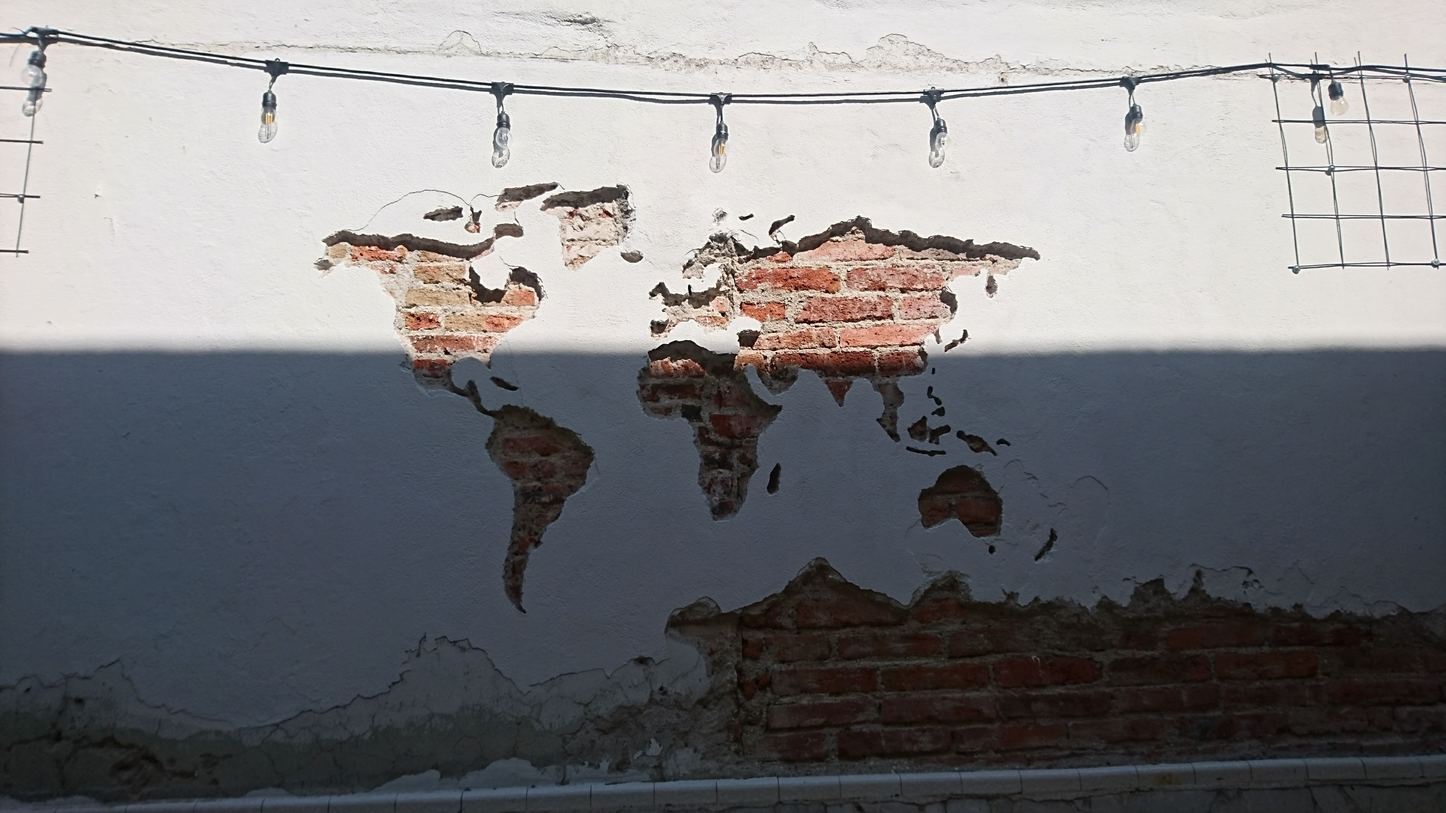
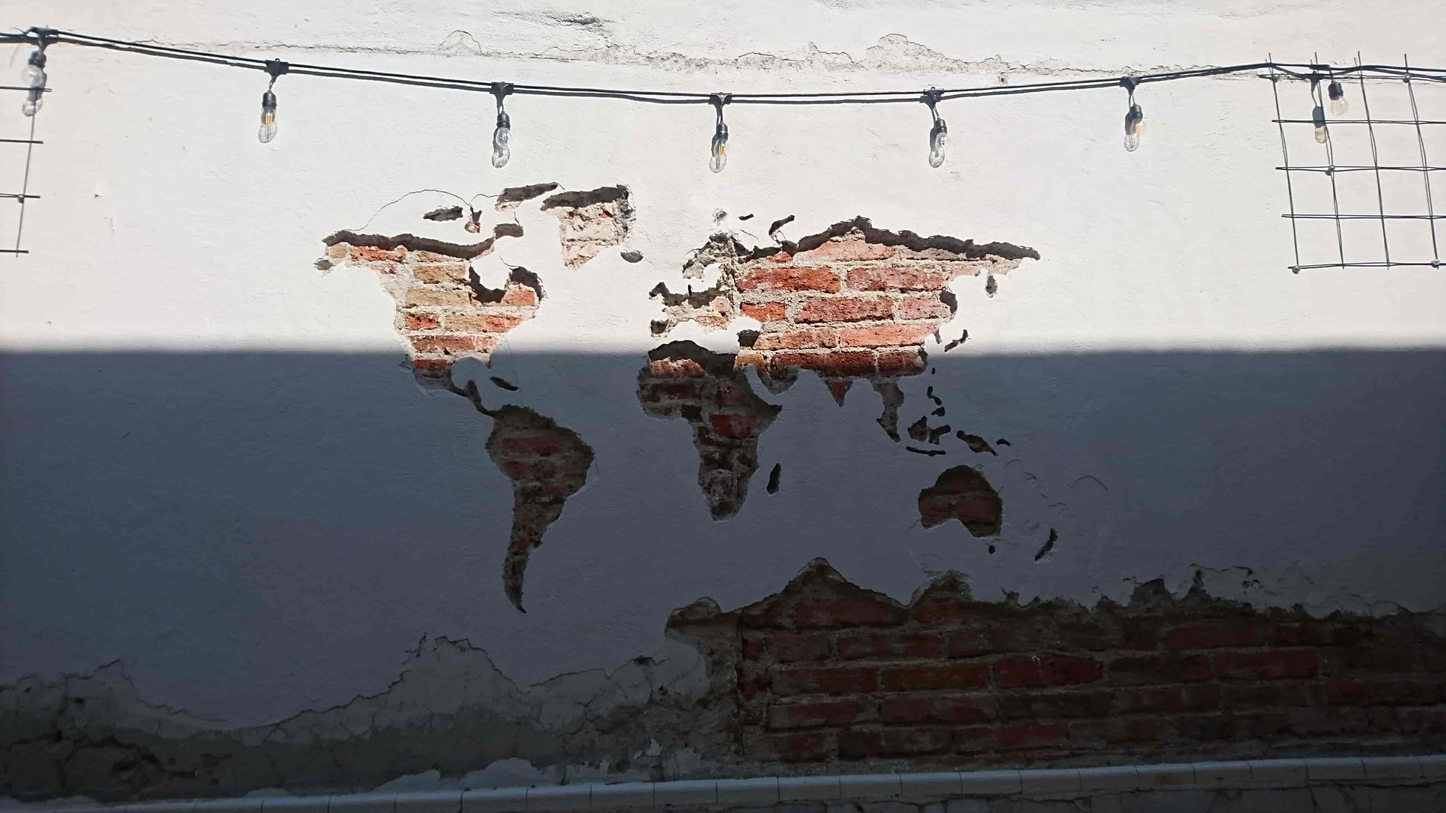
Compressed images, added text in About page

Changed region(s): [[0.5, 0.3102, 0.6562, 0.4343]]

diff --git a/pages/about.md b/pages/about.md
@@ -7,41 +7,85 @@ header:
     image_fullwidth: homepage_image.jpg
 ---
 
-Samudra is dedicated to solving global waste management challenges that don't have a profitable solution. Currently only 2 in 3 people worldwide have access to waste collection services. Ask yourself, what would you do if all of the waste in your bin would be your's to keep? 
+Samudra is dedicated to solving global waste management challenges that don't have a profitable solution. 
+Here we describe what we do, why we do it, and how our work directly contributes to 15 out of 17 Sustainable Development Goals (SGDs) set by the UN. 
 <hr style="height:10px; visibility:hidden;" />
+
+
+
+<h4>Waste collection services for everyone</h4>
+<br/>
+Currently only 2 in 3 people worldwide have access to waste collection services. 
+Every day 2.6 billion people face a choice of what to do with their waste. 
+Some set it on fire, some add it to a dumpsite nearby, some drive long distances to dump it far away from home, some let currents in a nearby river to carry their waste away. 
+<b>Ask yourself, what would you do if all the waste in your bin would be yours to keep?</b> 
+At Samudra our goal is to minimise the number of people who have to make this choice. 
+
 
 
 <h4>Back to front business of waste management</h4>
 <br/>
-Why we do it..
-As our first challenge we picked marine plastic pollution because it is an urgent matter. 
+Think of a successful company that sells a great product. 
+How did they achieve that? 
+They most likely started with identifying a market niche and learning about the target market segment. 
+Then they made decisions about investment in appropriate infrastructure. 
+Finally, they identified suppliers that can provide the type and amount of materials required for production. 
+If you've ever started a company, you know that none of these steps are easy. 
+Now imagine how hard it is to build a successful company if you must follow these steps in reverse order! 
+In waste management you don't choose the composition or the amount of generated waste; everything that is produced in your collection area has to be processed. 
+You then need to find a market for recyclable materials or products you can make with them yourself, but you cannot guarantee to your customers that you will be able to supply these continuously.
+Often the waste composition changes faster than infrastructure investment pays off. 
+As a result, waste management that doesn't harm the environment or human health is often not profitable. 
+At Samudra we are motivated by solving problems, not by profit. 
+That is why we decided to tackle global waste management challenges. 
+
+
+
+
+
+
+
 
 
 <h4>Maximum impact projects</h4>
 <br/>
+<!--
 What we do...
 A lot of "misplaced" effort
 80% of the plastic pollution comes from land and more than half of that comes from South-east Asia
 About 80% of plastic pollution that ends up in our oceans originates on land, a lot of it is due to the lack of waste collection services in populated areas. This brings us to Indonesia, where about 10% of global marine plastic pollution originate. Currently only 32% of municipal solid waste is collected in Indonesia. Hence our initial goal - to improve coverage and efficiency of the waste collection system.
-
+As our first challenge we picked marine plastic pollution because it is an urgent matter. 
+-->
 
 <h4>Best is the enemy of better</h4>
 <br/>
+<!--
 Our approach...
 Not perfect, just better
-
+-->
 
 
 <h4>Evidence weights more than believes</h4>
 <br/>
+<!--
 In depth research guides everything we do.
+-->
 
-
-<h4>Zero-blame game</h4>
+<h4>No blame culture</h4>
 <br/>
+<!--
 It's not a zero-sum game...
+-->
+
+<h4>Less waste is always better</h4>
+<br/>
+<!--
+We don't make t-shirts.
+-->
 
 
+<h4>Our contribution to 15 SGDs</h4>
+<br/>
 
 
 

diff --git a/pages/pages-root-folder/index.md b/pages/pages-root-folder/index.md
@@ -13,11 +13,13 @@ widget2:
   image: homepage_image.jpg
   title: 'Why is this urgent?'
   text: 'Lorem ipsum dolor sit amet, consectetur adipisicing elit, sed do eiusmod tempor incididunt ut labore et dolore magna aliqua.'
+  button: true
 widget3:
   url: 'https://samudra.world/team'
   image: homepage_image.jpg
   title: 'Meet the team'
   text: 'Lorem ipsum dolor sit amet, consectetur adipisicing elit, sed do eiusmod tempor incididunt ut labore et dolore magna aliqua.'
+  button: true
 callforaction:
   url: https://samudra.world/about
   text: More about Samudra >
@@ -27,7 +29,7 @@ homepage: true
 ---
 
 <br/>
-Samudra is dedicated to solving global waste management challenges that don't have a profitable solution. As our first challenge we picked marine plastic pollution because it is an urgent matter. About 80% of plastic pollution that ends up in our oceans originates on land, a lot of it is due to the lack of waste collection services in populated areas. This brings us to Indonesia, where about 10% of global marine plastic pollution originate. Currently only 32% of municipal solid waste is collected in Indonesia. Hence our initial goal - to improve coverage and efficiency of the waste collection system.
+Samudra is dedicated to solving global waste management challenges that don't have a profitable solution. As our first challenge we picked marine plastic pollution because it is an urgent matter. About 80% of plastic pollution that ends up in our oceans originates on land, a lot of it is due to the lack of waste collection services in populated areas. This brings us to Indonesia, where about 10% of global marine plastic pollution originates. Currently only 32% of municipal solid waste is collected in Indonesia. Hence our initial goal - to improve coverage and efficiency of the waste collection system.
 
 
 

diff --git a/README.md b/README.md
@@ -14,3 +14,9 @@ Beautiful layouts can be constructed using https://foundation.zurb.com/sites/doc
 "Includes" can be used in two ways:
 - as templates: all includes with `_` are used for templates, like for example the `_head.html` or `_footer.html`
 - as commands: for example {% include alert success="Yay! you did it!" %} or {% include gallery %}
+
+# Loads even on slow connection
+
+Perform website speed test using https://developers.google.com/speed/pagespeed/insights/ and https://www.uptrends.com/tools/website-speed-test
+
+Use image compressor https://imagecompressor.com/

diff --git a/pages/team.md b/pages/team.md
@@ -6,8 +6,8 @@ header:
     image_fullwidth: "homepage_image.jpg"
 widget1:
   url: 'https://www.linkedin.com/in/karina-zile/'
-  image: homepage_image.jpg
-  title: "Karina Zile"
+  image: team-karina.jpg
+  title: <a href="https://www.linkedin.com/in/karina-zile/">Karina Zile</a>
   text: 'Lorem ipsum dolor sit amet, consectetur adipisicing elit, sed do eiusmod tempor incididunt ut labore et dolore magna aliqua.'
 widget2:
   image: homepage_image.jpg
